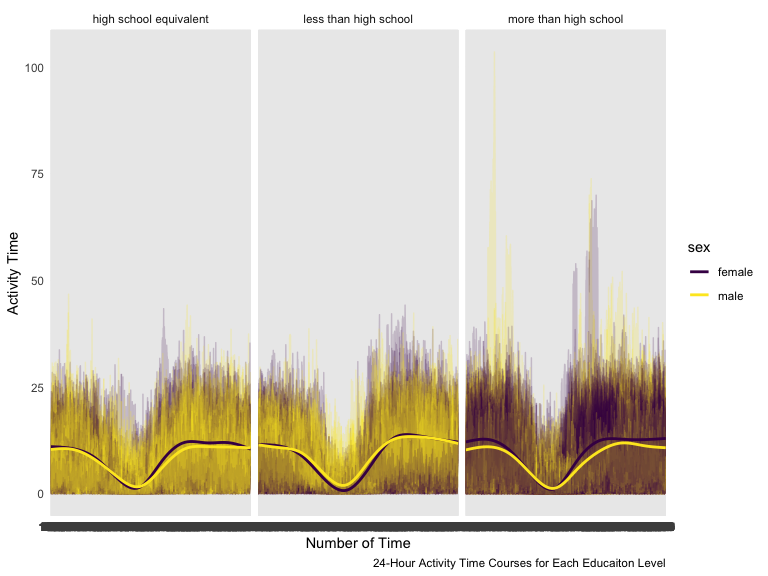
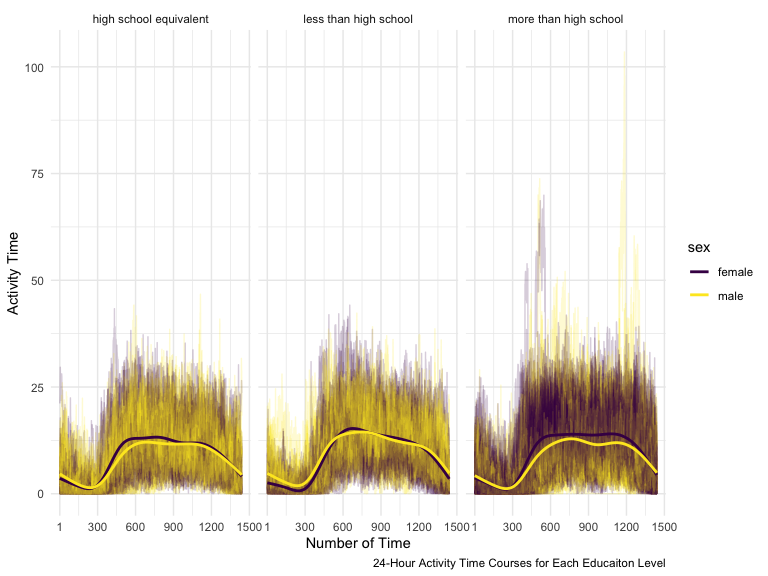
Revision of Problem 3 24 activity

diff --git a/p8105_hw3_yy3421.md b/p8105_hw3_yy3421.md
@@ -367,7 +367,10 @@ nhanes_covar =
 
 ``` r
 nhanes_df = 
-  left_join(nhanes_covar, nhanes_accel, by = "seqn")
+  left_join(nhanes_covar, nhanes_accel, by = "seqn") |> 
+  mutate(
+    number_of_time = as.numeric(number_of_time)
+  )
 ```
 
 ### Question 1:
@@ -483,7 +486,10 @@ nhanes_df |>
     x = "Number of Time",
     y = "Activity Time",
     caption = "24-Hour Activity Time Courses for Each Educaiton Level"
-  )
+  )+
+  scale_x_continuous(
+    breaks = c(1, 300, 600, 900, 1200, 1500), 
+    labels = c("1", "300", "600", "900", "1200", "1500"))
 ```
 
     ## `geom_smooth()` using method = 'gam' and formula = 'y ~ s(x, bs = "cs")'
@@ -494,5 +500,6 @@ In each education level, the above plot shows the 24-hour activity time
 changes for each participant and is color-coded based on sex. The trend
 of each participant in every minute in a day is presented in this plot.
 Overall, the trend line of change in 24 hours is similar in each
-education level for each sex is similar with a minimum near the middle
-of day.
+education level for each sex is similar with a minimum near the start of
+the day, a increase starting near 300 mins, a peak near 600 mins, and a
+gradual decrease afterwards.
